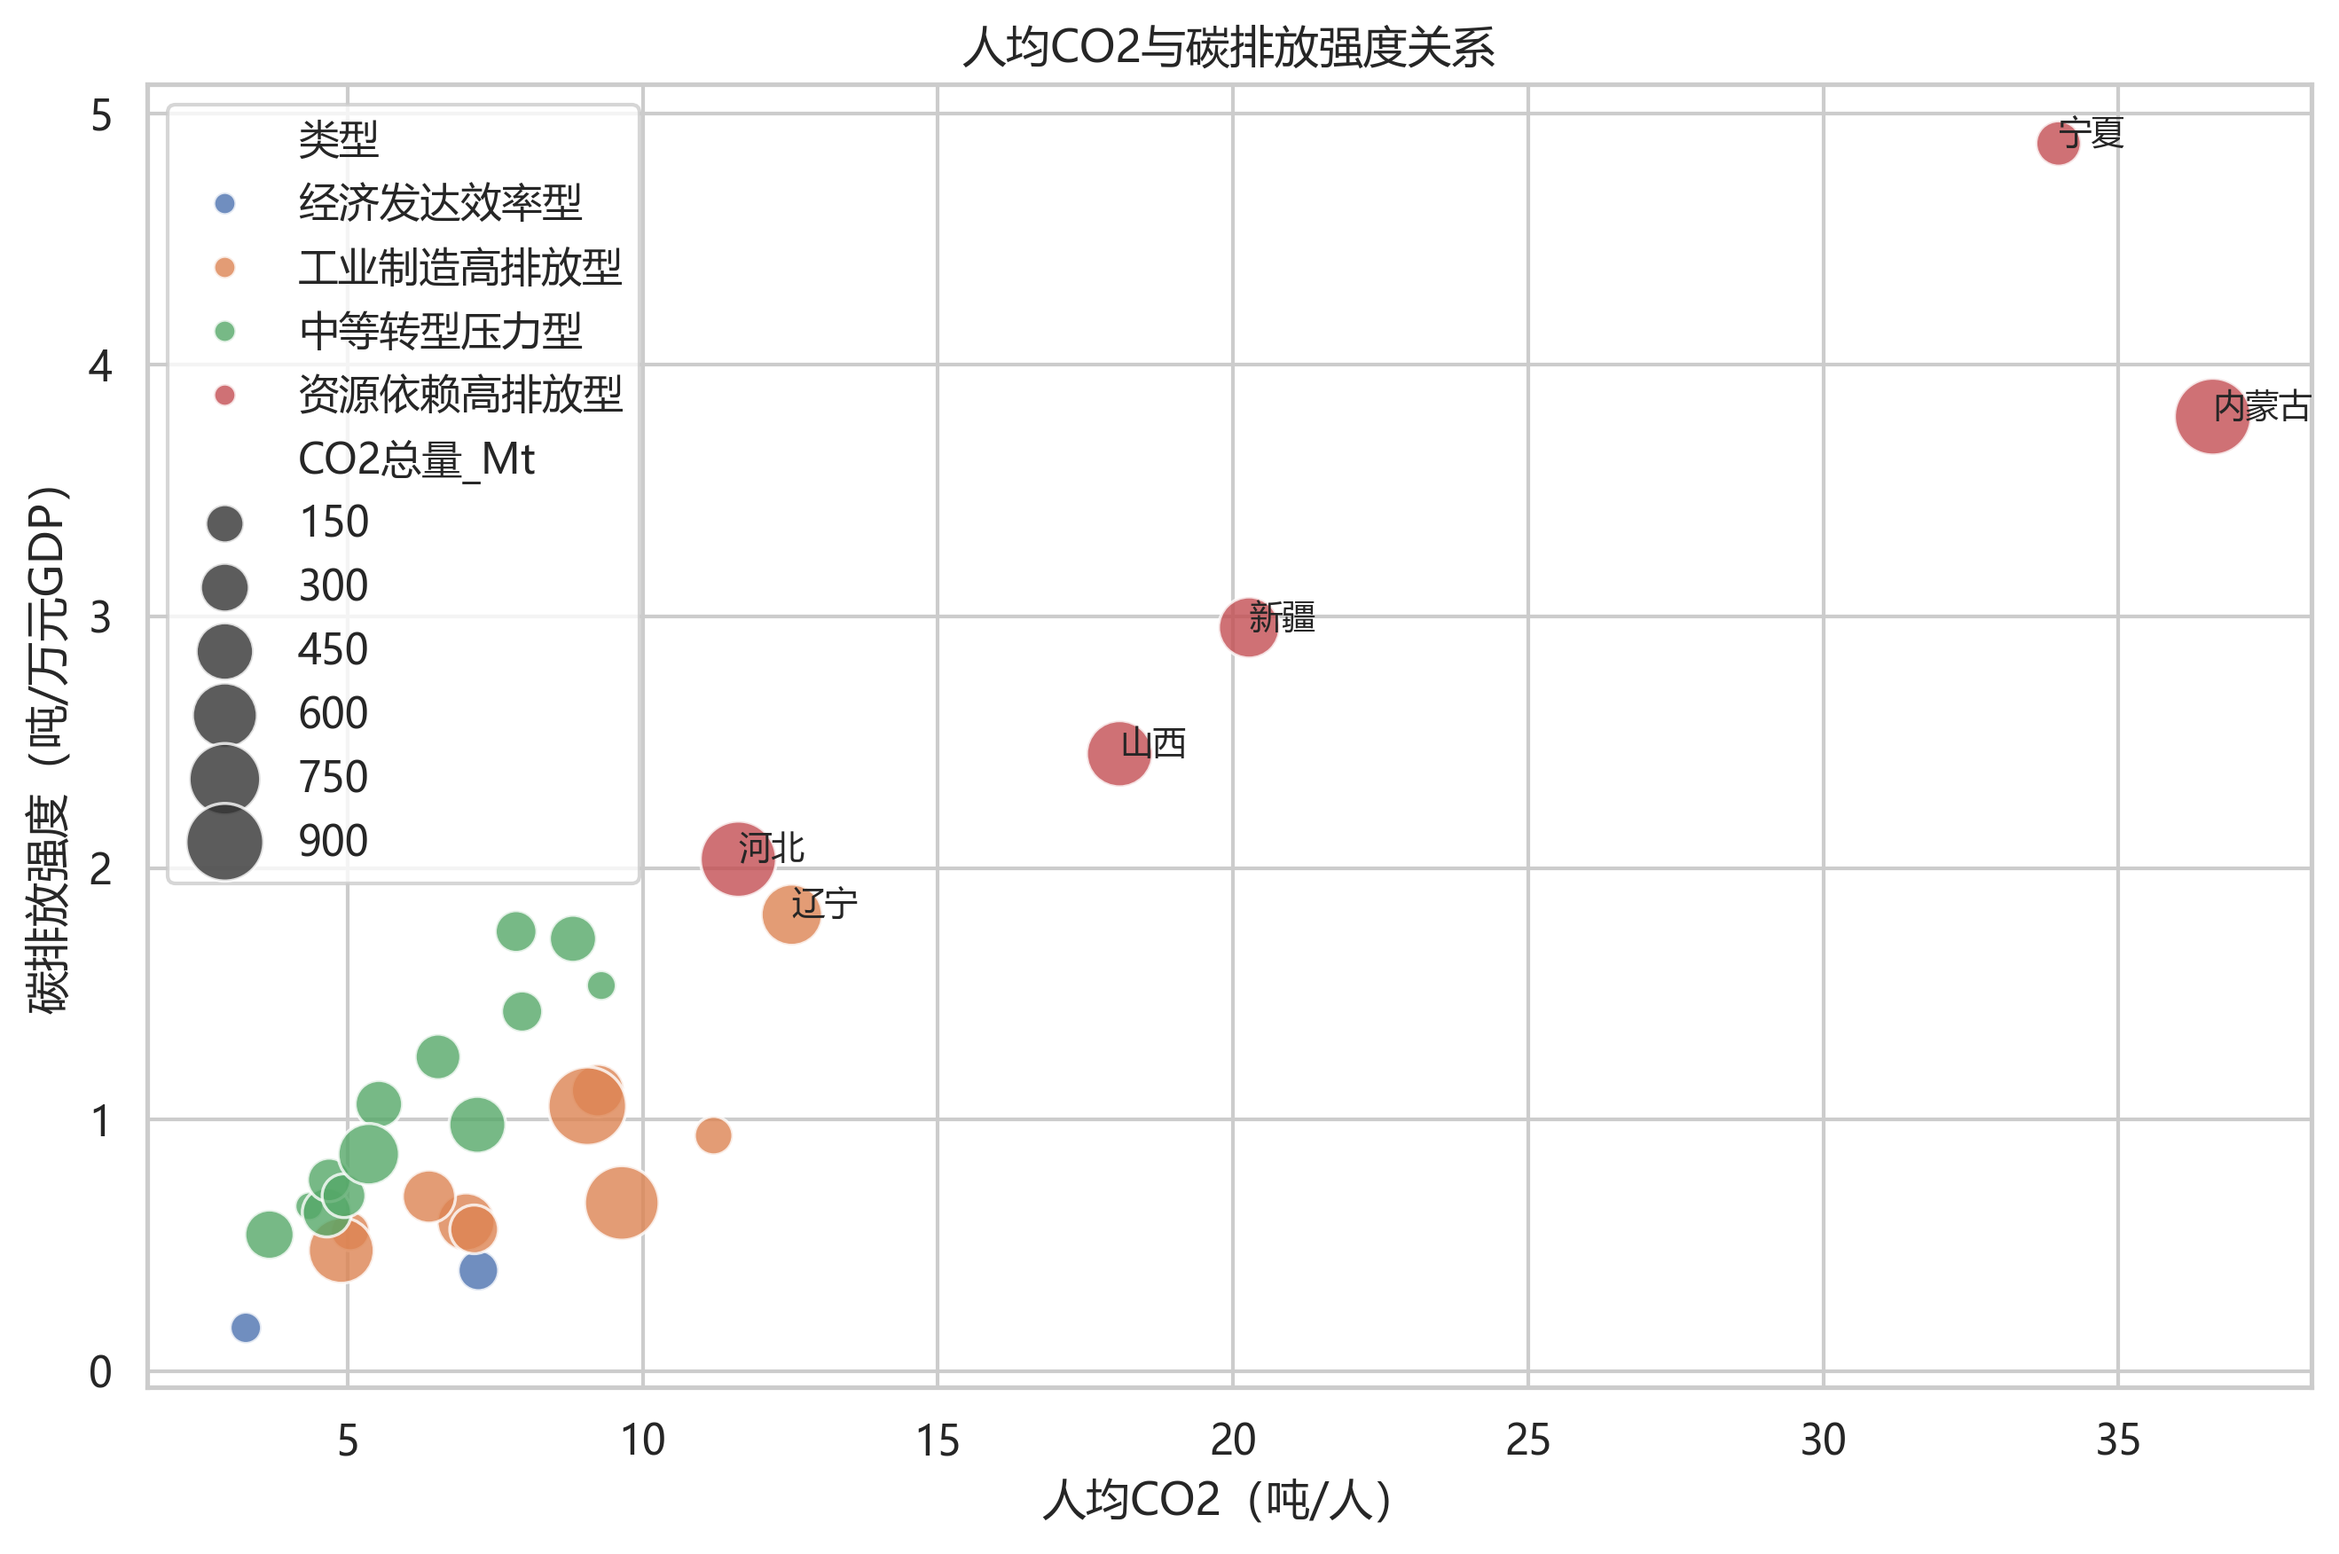
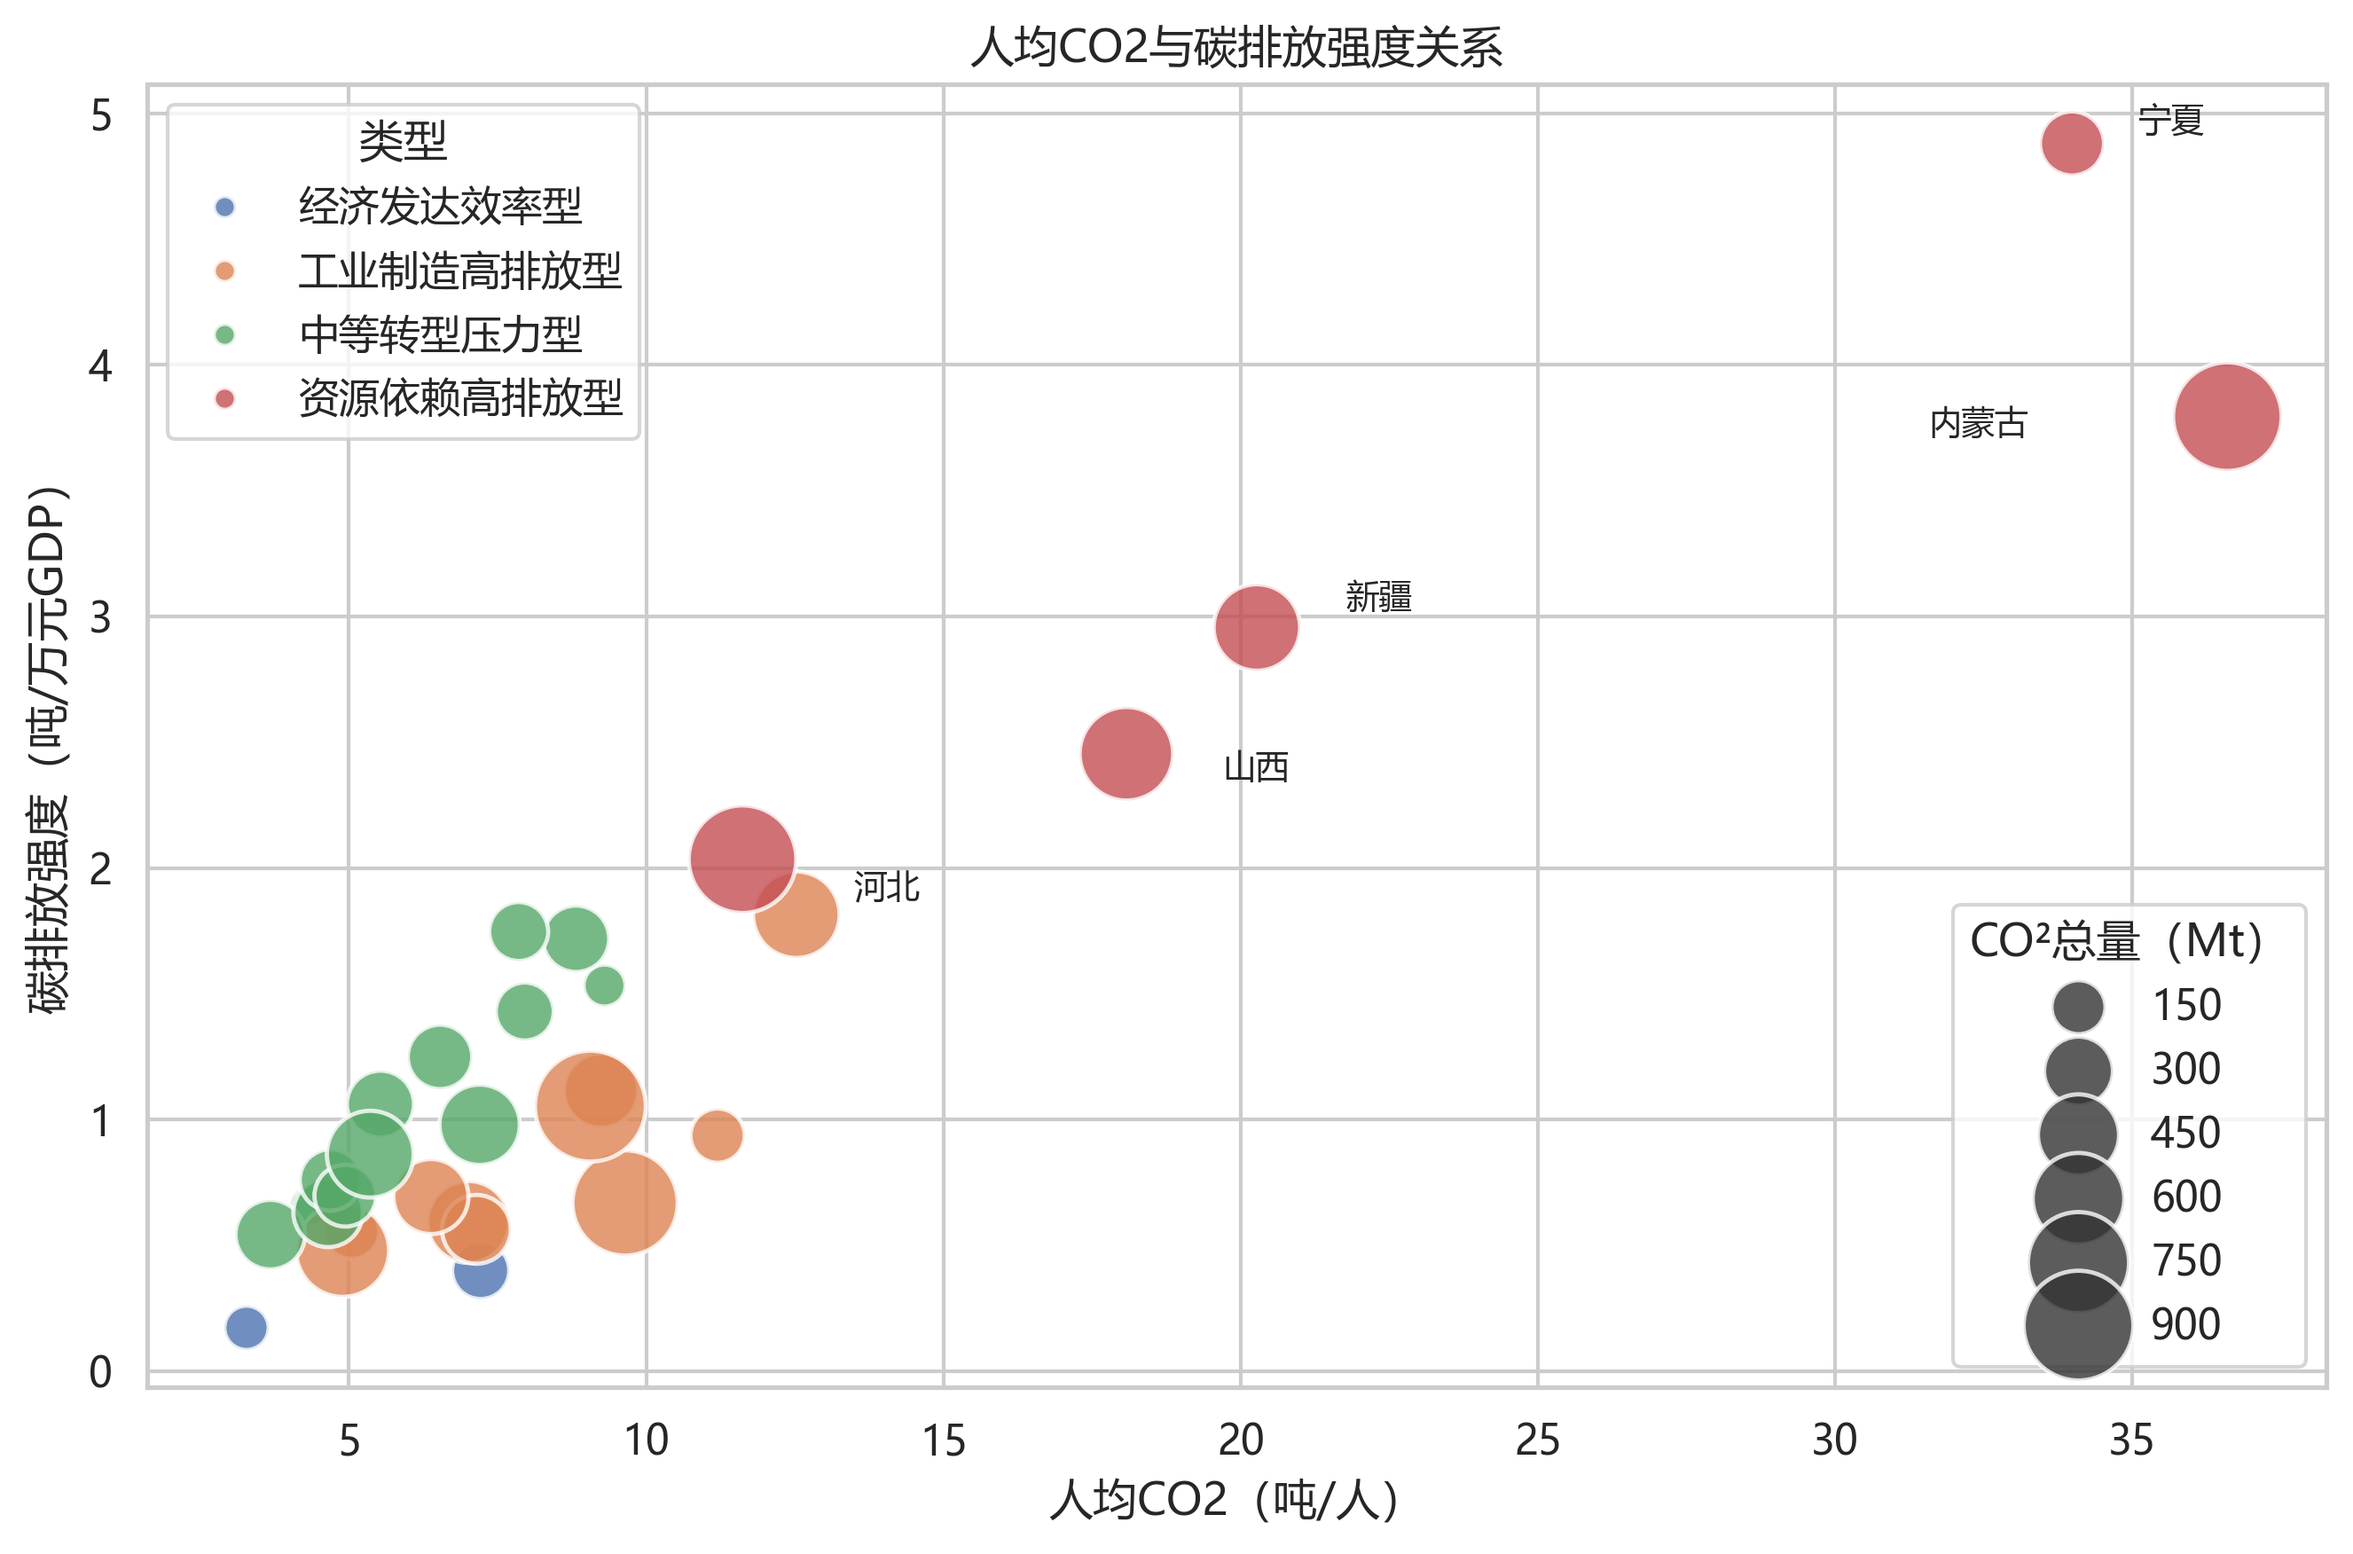
散点图

diff --git a/3.代码/问题一/solve_problem1.py b/3.代码/问题一/solve_problem1.py
@@ -197,22 +197,51 @@ def make_problem_one_figures(problem_one: dict[str, pd.DataFrame]) -> None:
     save_fig(fig, FIG_DIR, "01_省份CO2总量排名图")
 
     fig, ax = plt.subplots(figsize=(9, 6))
+    scatter_data = province.rename(columns={"CO2总量_Mt": "CO²总量（Mt）"})
     sns.scatterplot(
-        data=province,
+        data=scatter_data,
         x="人均CO2_吨每人",
         y="碳排放强度_吨每万元GDP",
         hue="类型",
-        size="CO2总量_Mt",
-        sizes=(60, 450),
+        size="CO²总量（Mt）",
+        sizes=(120, 900),
         alpha=0.8,
         ax=ax,
     )
-    for _, row in province.nlargest(6, "人均CO2_吨每人").iterrows():
-        ax.text(row["人均CO2_吨每人"], row["碳排放强度_吨每万元GDP"], row["省份"], fontsize=9)
+    label_offsets = {
+        "内蒙古": (-54, -2),
+        "宁夏": (18, 6),
+        "山西": (26, -4),
+        "新疆": (24, 8),
+        "河北": (30, -8),
+    }
+    label_data = province[province["类型"].eq("资源依赖高排放型")]
+    for _, row in label_data.iterrows():
+        offset = label_offsets.get(row["省份"], (18, 6))
+        ax.annotate(
+            row["省份"],
+            xy=(row["人均CO2_吨每人"], row["碳排放强度_吨每万元GDP"]),
+            xytext=offset,
+            textcoords="offset points",
+            ha="right" if offset[0] < 0 else "left",
+            va="center",
+            fontsize=9,
+            annotation_clip=False,
+        )
     ax.set_title("人均CO2与碳排放强度关系")
     ax.set_xlabel("人均CO2（吨/人）")
     ax.set_ylabel("碳排放强度（吨/万元GDP）")
-    ax.legend(loc="best", frameon=True)
+    handles, labels = ax.get_legend_handles_labels()
+    ax.legend_.remove()
+    size_header = "CO²总量（Mt）"
+    size_start = labels.index(size_header)
+    type_handles = handles[1:size_start]
+    type_labels = labels[1:size_start]
+    size_handles = handles[size_start + 1 :]
+    size_labels = labels[size_start + 1 :]
+    type_legend = ax.legend(type_handles, type_labels, title="类型", loc="upper left", frameon=True)
+    ax.add_artist(type_legend)
+    ax.legend(size_handles, size_labels, title=size_header, loc="lower right", frameon=True)
     save_fig(fig, FIG_DIR, "02_人均CO2与碳排放强度散点图")
 
     topsis_sorted = topsis.sort_values("TOPSIS低碳得分", ascending=True)
